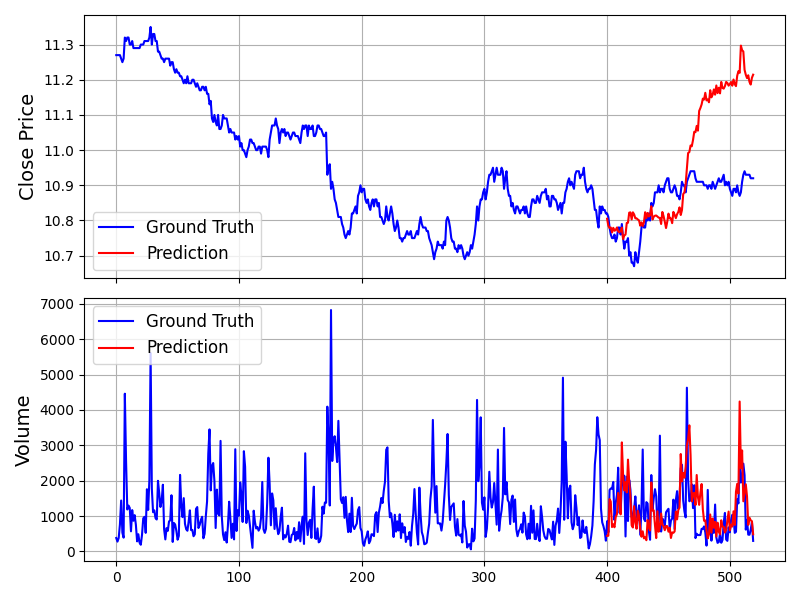
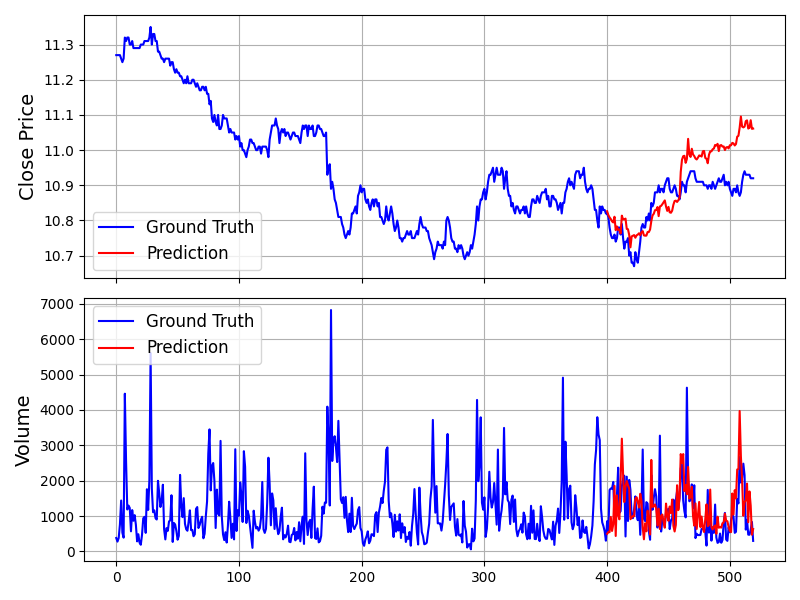
docs(config): 更新配置文件注释和预测示例说明
完善配置文件中的参数说明，增加中文注释解释每个参数的作用
在预测示例脚本中添加模型效果评估指南
更新模型加载路径为本地微调后的模型

diff --git a/examples/prediction_example.py b/examples/prediction_example.py
@@ -6,6 +6,25 @@ from model import Kronos, KronosTokenizer, KronosPredictor
 
 
 def plot_prediction(kline_df, pred_df):
+    """
+    绘制预测结果对比图。
+    
+    如何通过这张图评价模型效果 (Evaluation Guide)：
+    1. 趋势拟合 (Trend Following): 
+       - 最重要的是看红色线(预测)是否跟住了蓝色线(真实)的大方向。
+       - 只要涨跌趋势对上了，即使绝对数值有偏差也是可以接受的。
+       
+    2. 拐点捕捉 (Turning Points):
+       - 观察在波峰和波谷处，红色线是否能及时转向。
+       - 常见的不足是“滞后”(Lag)，即真实价格跌了，模型下一时刻才跟着跌。
+       
+    3. 波动幅度 (Volatility):
+       - 红色线的波动幅度是否与蓝色线接近？
+       - 如果红色线很平(趋于直线)，说明模型过于保守(欠拟合)；如果波动过大，可能是过拟合。
+       
+    4. 成交量 (Volume - 下方子图):
+       - 关注模型是否预测出了成交量的放大和缩小，这往往对应着价格剧烈波动的时刻。
+    """
     pred_df.index = kline_df.index[-pred_df.shape[0]:]
     sr_close = kline_df['close']
     sr_pred_close = pred_df['close']
@@ -40,9 +59,18 @@ def plot_prediction(kline_df, pred_df):
 
 
 # 1. Load Model and Tokenizer
-print("1. 正在加载模型和分词器... (Tokenizer: NeoQuasar/Kronos-Tokenizer-base, Model: NeoQuasar/Kronos-base)")
-tokenizer = KronosTokenizer.from_pretrained("NeoQuasar/Kronos-Tokenizer-base")
-model = Kronos.from_pretrained("NeoQuasar/Kronos-base")
+# print("1. 正在加载模型和分词器... (Tokenizer: NeoQuasar/Kronos-Tokenizer-base, Model: NeoQuasar/Kronos-base)")
+# tokenizer = KronosTokenizer.from_pretrained("NeoQuasar/Kronos-Tokenizer-base")
+# model = Kronos.from_pretrained("NeoQuasar/Kronos-base")
+print("1. 正在加载模型和分词器...")
+tokenizer_path = "/home/ubuntu/chengtay_code/Kronos/finetune_csv/finetuned/HK_ali_09988_kline_5min_all/tokenizer/best_model"
+model_path = "/home/ubuntu/chengtay_code/Kronos/finetune_csv/finetuned/HK_ali_09988_kline_5min_all/basemodel/best_model"
+
+print(f"   Tokenizer Path: {tokenizer_path}")
+print(f"   Model Path: {model_path}")
+
+tokenizer = KronosTokenizer.from_pretrained(tokenizer_path)
+model = Kronos.from_pretrained(model_path)
 
 # 2. Instantiate Predictor
 print("2. 正在初始化预测器... (Device: cuda:0, Max Context: 512)")
